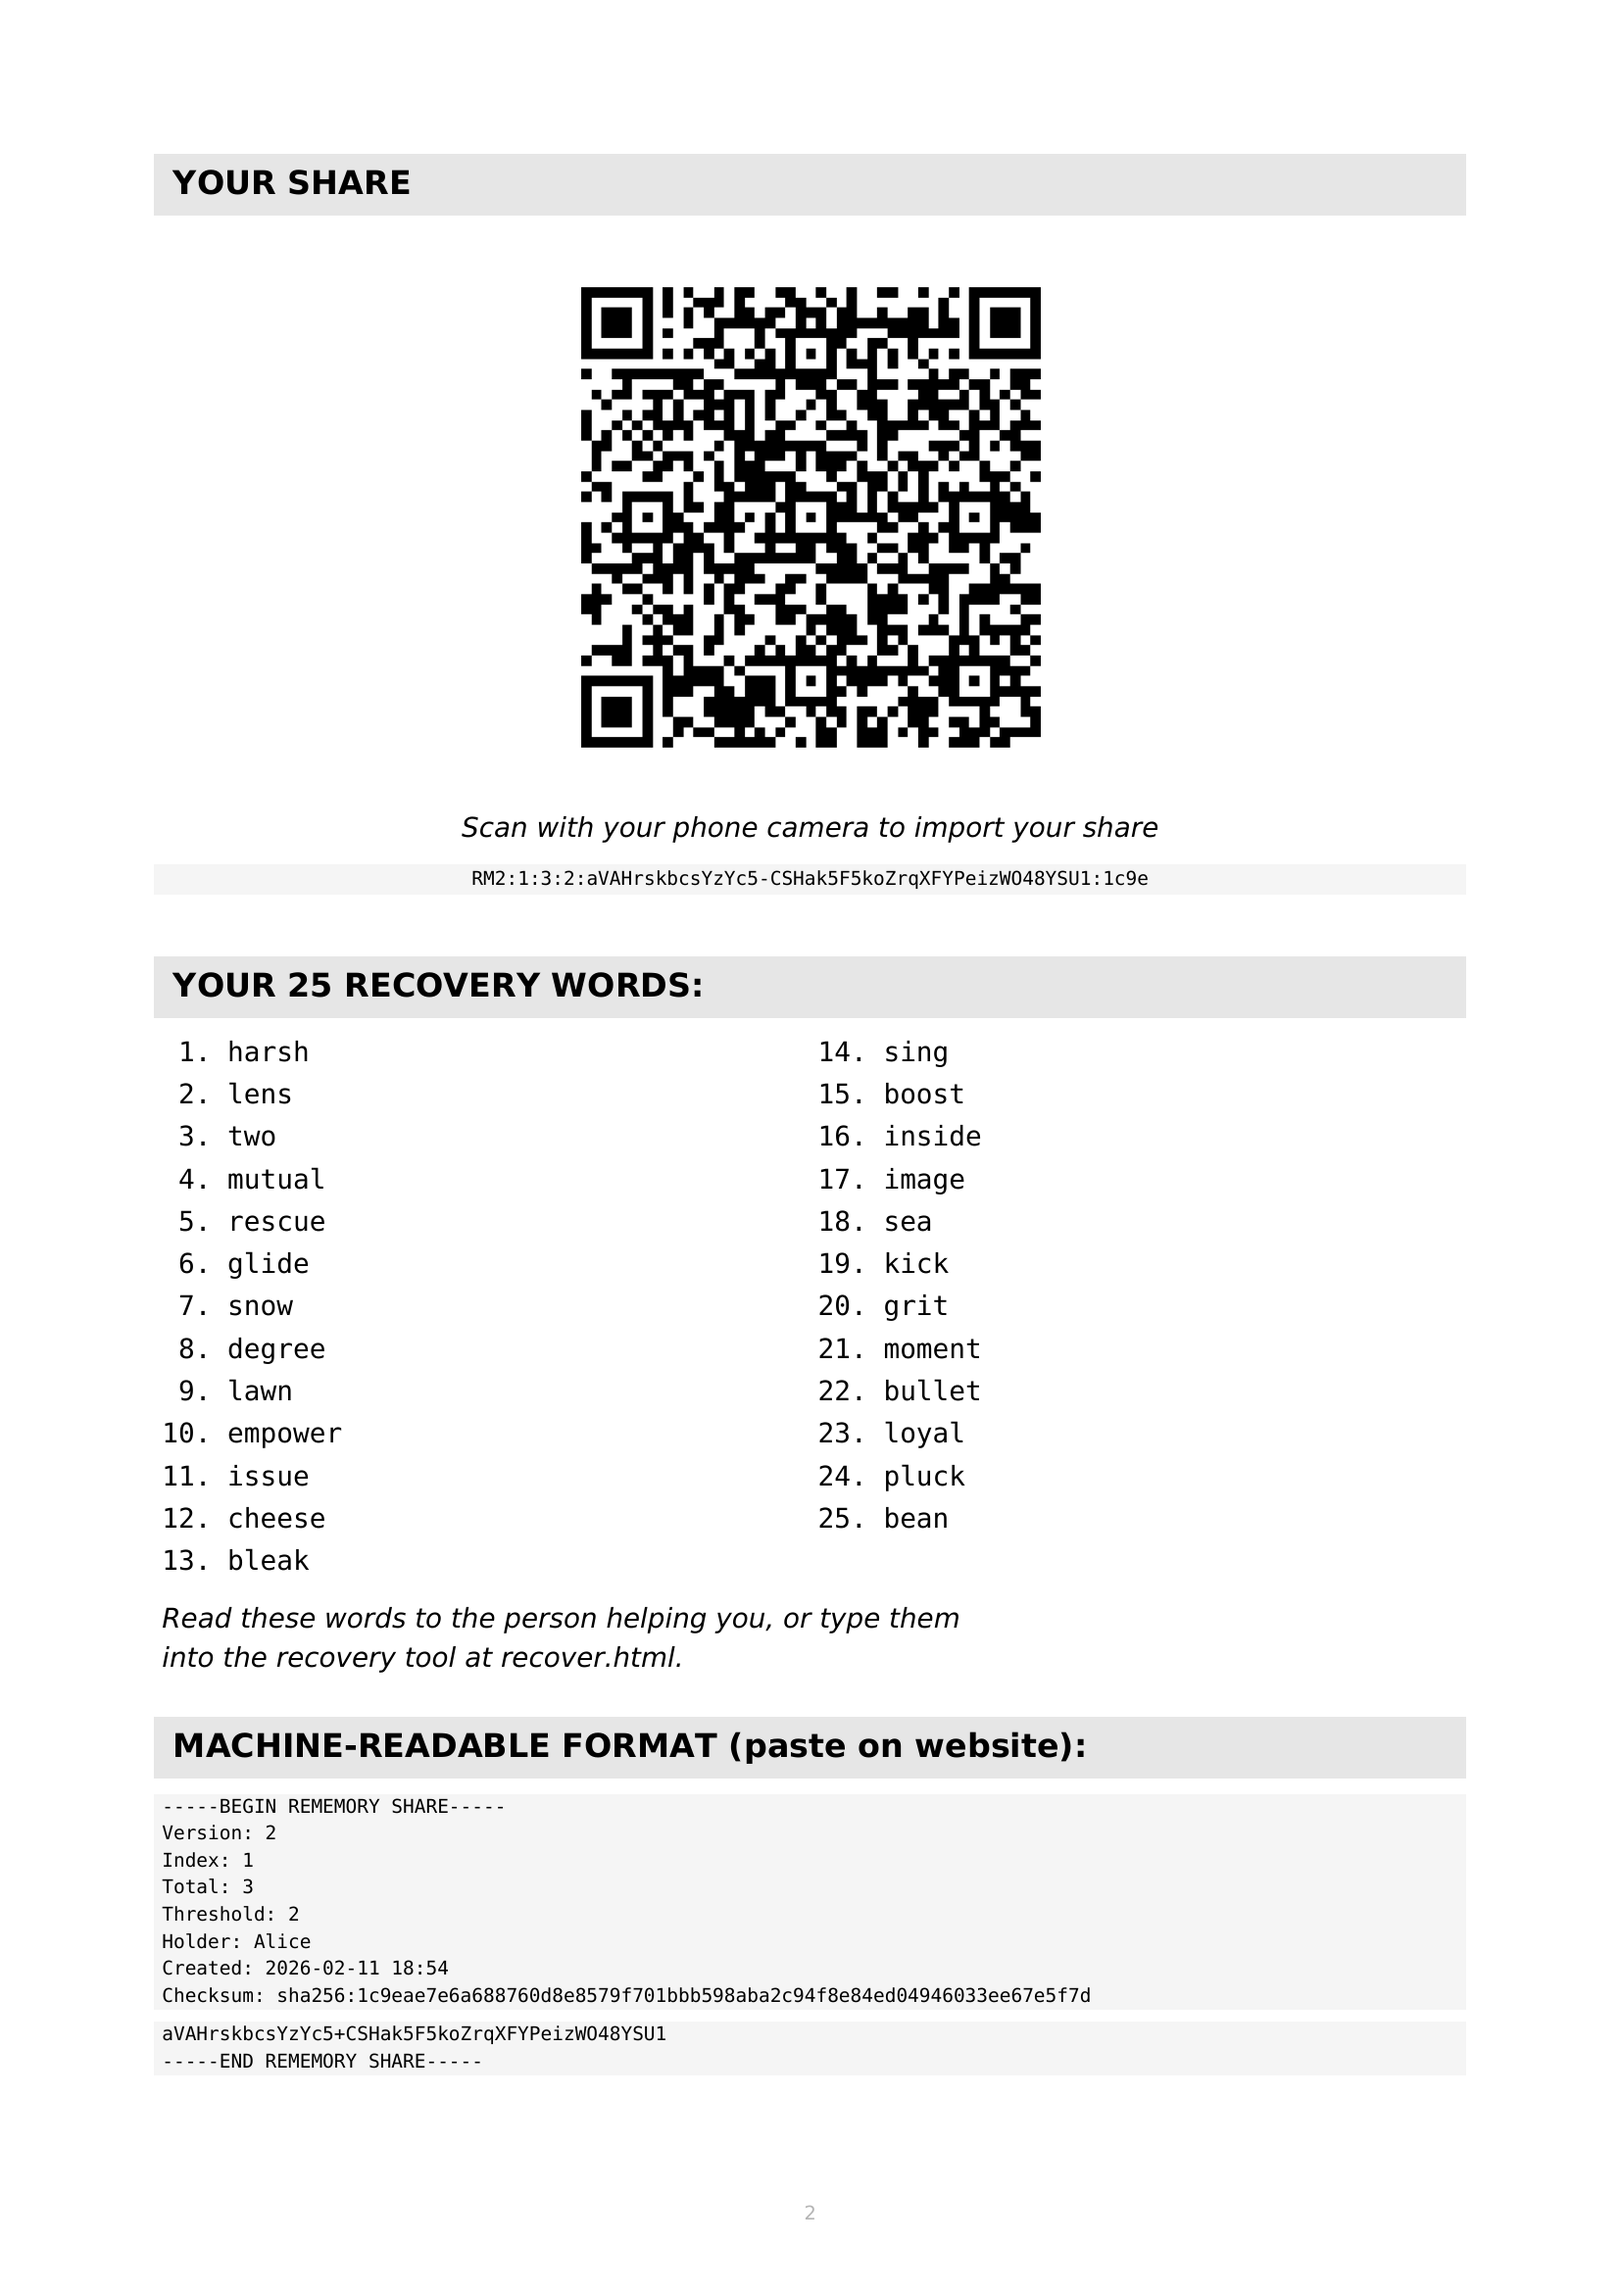
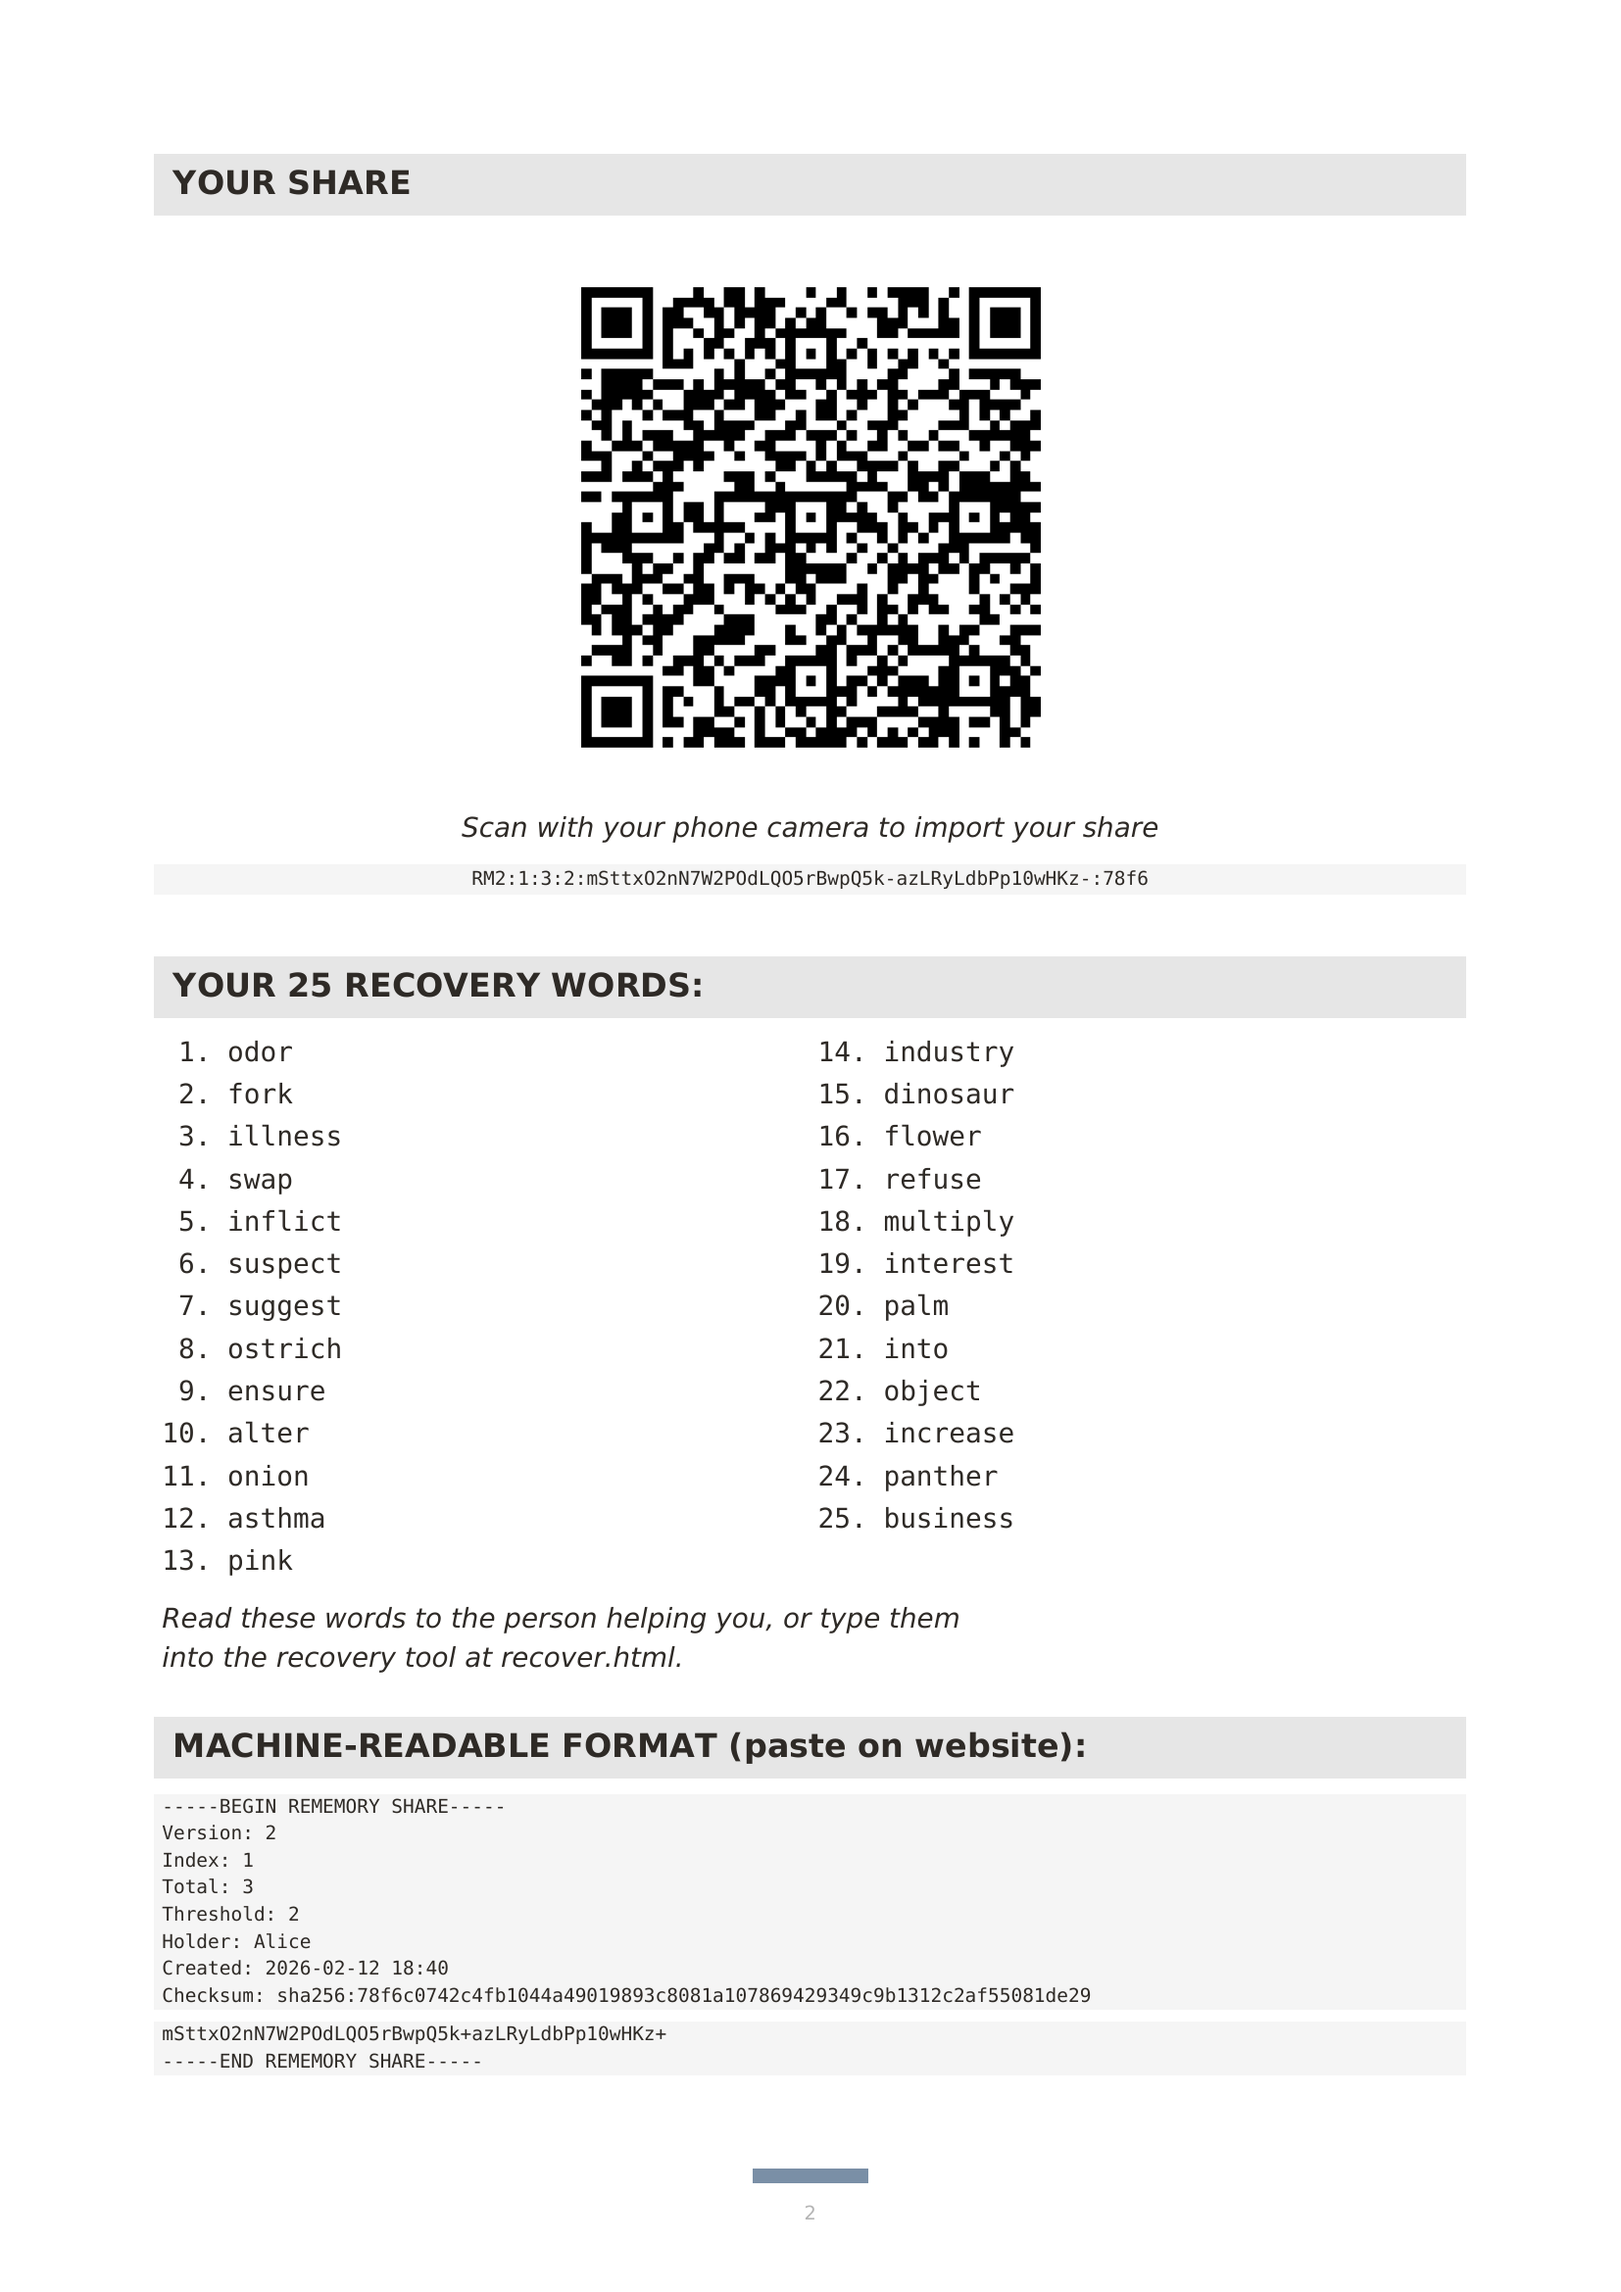
Tweak PDF colours, add identity color bar, tweaks to file dragging

diff --git a/internal/html/assets/src/create-app.ts b/internal/html/assets/src/create-app.ts
@@ -546,6 +546,8 @@ declare let currentLang: string;
   }
 
   function renderFilesPreview(): void {
+    elements.filesDropZone?.classList.toggle('loaded', state.files.length > 0);
+
     if (state.files.length === 0) {
       elements.filesPreview?.classList.add('hidden');
       elements.filesSummary?.classList.add('hidden');

diff --git a/internal/html/assets/src/app.ts b/internal/html/assets/src/app.ts
@@ -883,6 +883,8 @@ declare const t: TranslationFunction;
   function updateSharesUI(): void {
     if (!elements.sharesList) return;
 
+    elements.shareDropZone?.classList.toggle('loaded', state.shares.length > 0);
+
     elements.sharesList.innerHTML = '';
 
     state.shares.forEach((share, idx) => {

diff --git a/internal/html/assets/styles.css b/internal/html/assets/styles.css
@@ -112,6 +112,12 @@ header p {
   background: var(--sage-tint);
 }
 
+.drop-zone.loaded {
+  border-color: var(--sage);
+  border-style: solid;
+  background: var(--sage-tint);
+}
+
 .drop-zone p {
   color: var(--text-secondary);
   margin-bottom: 0.5rem;

diff --git a/internal/pdf/readme.go b/internal/pdf/readme.go
@@ -44,6 +44,19 @@ const (
 	smallMono   = 7.0
 )
 
+// bundleColors are soft, distinguishable colors used to give each friend's
+// printed PDF a unique visual identity. Indexed by (share.Index - 1) % len.
+var bundleColors = [][3]int{
+	{122, 143, 166}, // dusty blue
+	{85, 115, 90},   // sage
+	{166, 130, 100}, // warm tan
+	{140, 110, 140}, // muted plum
+	{110, 145, 140}, // teal
+	{180, 140, 100}, // amber
+	{120, 130, 160}, // slate
+	{155, 120, 120}, // dusty rose
+}
+
 // QR code size in mm on the PDF page.
 const qrSizeMM = 70.0
 
@@ -75,19 +88,38 @@ func GenerateReadme(data ReadmeData) ([]byte, error) {
 	// Register embedded UTF-8 TrueType fonts (DejaVu Sans)
 	registerUTF8Fonts(p)
 
-	// Page numbers — small, centered, low-key
+	// Bundle identity color — each friend gets a distinct strip
+	colorIdx := 0
+	if data.Share != nil && data.Share.Index > 0 {
+		colorIdx = (data.Share.Index - 1) % len(bundleColors)
+	}
+	bc := bundleColors[colorIdx]
+
+	// Page numbers — small, centered, low-key, with identity mark
 	p.SetFooterFunc(func() {
+		pw, _ := p.GetPageSize()
 		p.SetY(-15)
+		// Small identity mark before the page number
+		markW := 15.0
+		markH := 2.0
+		markX := (pw - markW) / 2
+		p.SetFillColor(bc[0], bc[1], bc[2])
+		p.Rect(markX, p.GetY()-1, markW, markH, "F")
 		p.SetFont(fontSans, "", 7)
 		p.SetTextColor(180, 180, 180)
 		p.CellFormat(0, 10, fmt.Sprintf("%d", p.PageNo()), "", 0, "C", false, 0, "")
-		p.SetTextColor(0, 0, 0)
+		p.SetTextColor(46, 42, 38)
 	})
 
 	p.AddPage()
 
 	// Page dimensions (used throughout for centered elements)
 	pageWidth, _ := p.GetPageSize()
+
+	// Identity strip at the top of the first page
+	p.SetFillColor(bc[0], bc[1], bc[2])
+	p.Rect(0, 0, pageWidth, 4, "F")
+
 	leftMargin, _, rightMargin, _ := p.GetMargins()
 	contentWidth := pageWidth - leftMargin - rightMargin
 
@@ -106,13 +138,12 @@ func GenerateReadme(data ReadmeData) ([]byte, error) {
 	p.CellFormat(0, 8, t("for", data.Holder), "", 1, "C", false, 0, "")
 	p.Ln(12)
 
-	// ── Warning stamps — high contrast, centered, stamp-like ──
+	// ── Warning stamps — soft, centered, calm ──
 	// Stamp 1: Cannot use alone
-	p.SetFillColor(85, 115, 90)
-	p.SetTextColor(255, 255, 255)
+	p.SetFillColor(232, 239, 234)
+	p.SetTextColor(46, 42, 38)
 	p.SetFont(fontSans, "B", headingSize)
 	p.CellFormat(0, 11, t("warning_cannot_alone"), "", 1, "C", true, 0, "")
-	p.SetTextColor(0, 0, 0)
 	p.SetFillColor(232, 242, 234)
 	p.SetFont(fontSans, "", 9)
 	if data.Anonymous {
@@ -122,11 +153,9 @@ func GenerateReadme(data ReadmeData) ([]byte, error) {
 	}
 	p.Ln(4)
 	// Stamp 2: Confidential
-	p.SetFillColor(85, 115, 90)
-	p.SetTextColor(255, 255, 255)
+	p.SetFillColor(232, 239, 234)
 	p.SetFont(fontSans, "B", headingSize)
 	p.CellFormat(0, 11, t("warning_confidential"), "", 1, "C", true, 0, "")
-	p.SetTextColor(0, 0, 0)
 	p.SetFillColor(232, 242, 234)
 	p.SetFont(fontSans, "", 9)
 	p.CellFormat(0, 7, t("warning_keep_safe"), "", 1, "C", true, 0, "")
